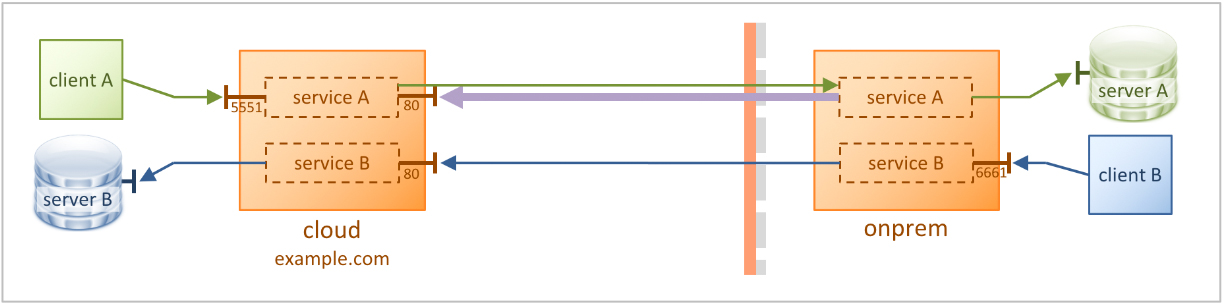
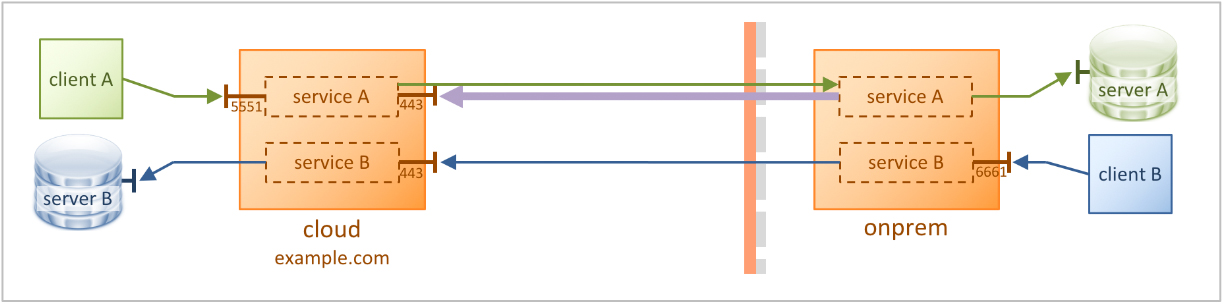
Add instructions

diff --git a/kwic/2-tls/README.md b/kwic/2-tls/README.md
@@ -1,4 +1,4 @@
-# KWIC
+# KWIC TLS
 
 (**Note:** Please complete the [KWIC 1-Simple tutorial](../1-simple) before starting this one.)
 
